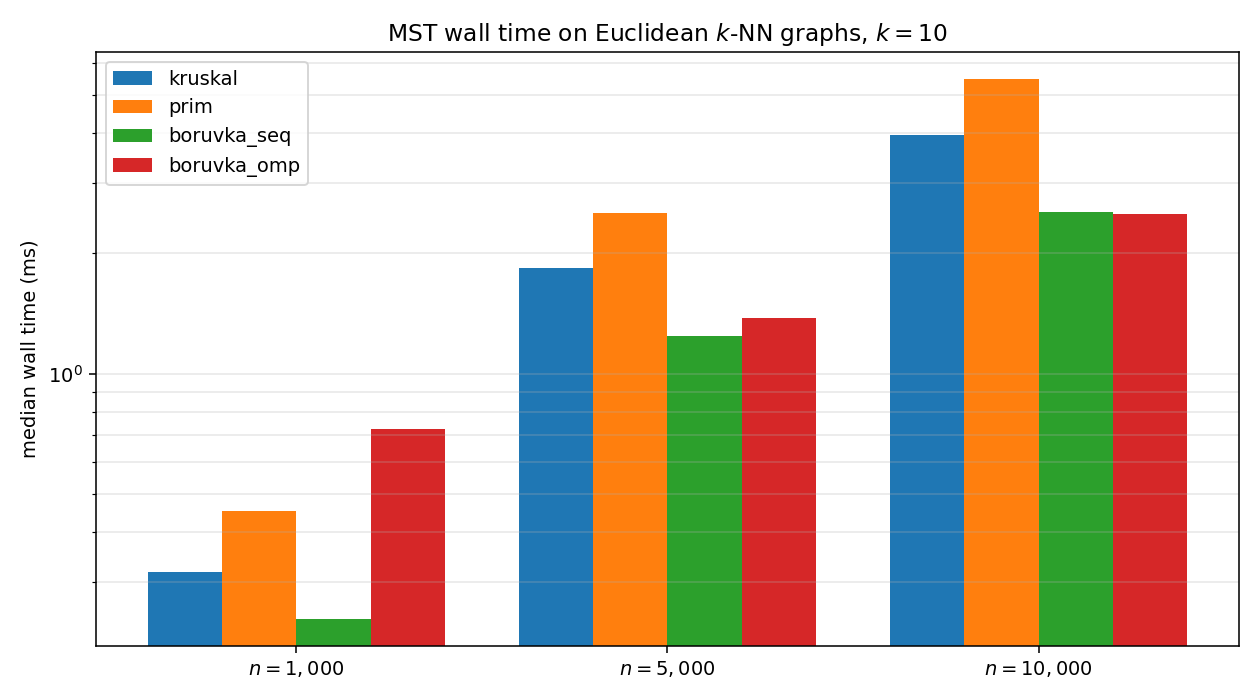
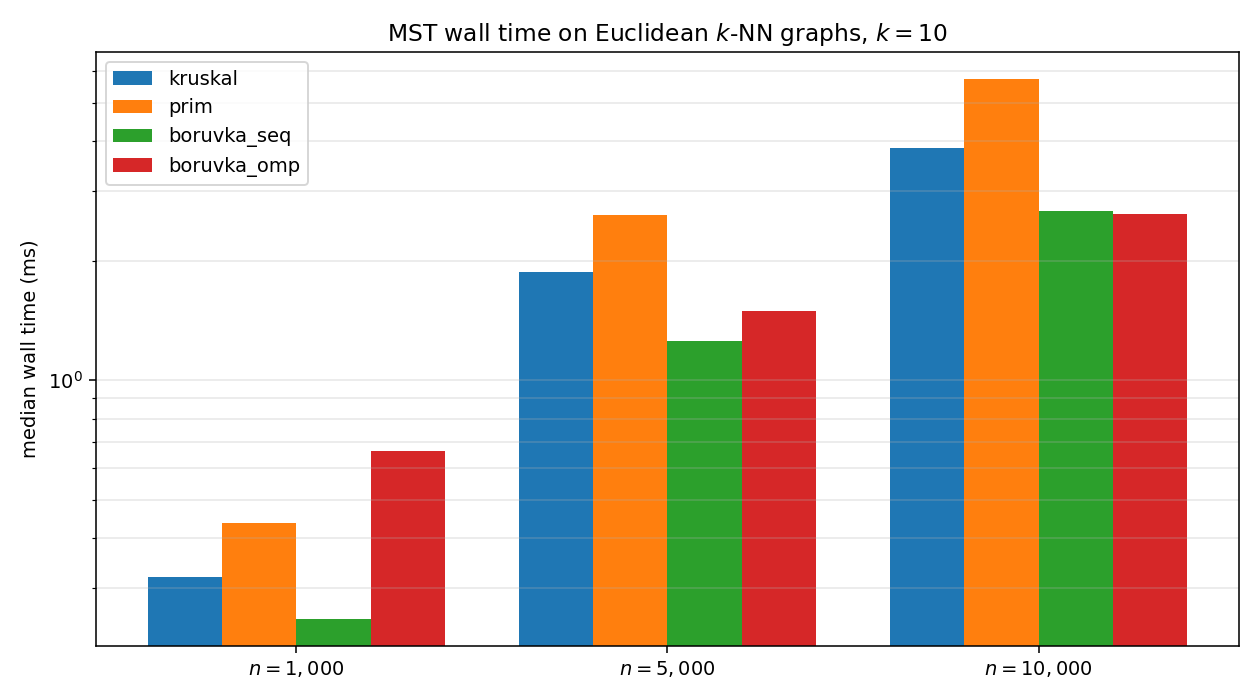
wire e10 and e11 into run_all, document python deps via requirements.txt

diff --git a/README.md b/README.md
@@ -47,7 +47,7 @@ OpenMP ships with MSVC; no separate install needed.
 include/mst/   public headers
 src/           library implementations
 tests/         GoogleTest suites
-tools/         gen_graph, gen_grid, bench, dump_mst, profile_omp
+tools/         gen_graph, gen_grid, gen_knn, bench, dump_mst, profile_omp
 scripts/       bench-sweep orchestrators, plot scripts, MST visualisation
 results/       experiment CSVs and figures (committed; regenerable)
 ```
@@ -77,6 +77,15 @@ Useful for visualisation since vertex `i` has a natural position `(i % cols, i /
 
 ```
 ./build/tools/gen_grid 16 16 7 > grid.txt
+```
+
+`gen_knn <n> <k> [seed]` — Euclidean k-nearest-neighbour graph on `n` random
+points uniformly sampled from `[0,1]²`; edges are symmetrised (i↔j if either
+sees the other in their k-NN list); weight = Euclidean distance. Generation
+is brute-force O(n²); fine up to n≈10⁴.
+
+```
+./build/tools/gen_knn 1000 10 42 > knn.txt
 ```
 
 `bench <algo> [threads]` — runs one of `kruskal | prim | boruvka_seq | boruvka_omp`,
@@ -115,8 +124,14 @@ python3 scripts/plot_bench.py --in sweep.csv --out sweep.png
 
 ## Experiments
 
-The CSVs and PNGs under `results/` are produced by a fixed-seed sweep. Reproduce
-everything with one command (≈10 min on a multi-core machine):
+The CSVs and figures under `results/` are produced by a fixed-seed sweep. The
+plot and animation scripts need `matplotlib`, `networkx`, and `numpy`:
+
+```
+pip install -r requirements.txt
+```
+
+Reproduce everything with one command (≈10 min on a multi-core machine):
 
 ```
 scripts/run_all.sh
@@ -135,8 +150,10 @@ Or run a single experiment + plot:
 | **E7** density × threads speedup heatmap     | `run_density_heatmap.sh` | `plot_e7_density_heatmap.py` | `results/e7_density_heatmap.{csv,png}` |
 | **E8** multi-density Erdős–Rényi (3 densities) | `run_multi_density.sh` | `plot_e8_multi_density.py` | `results/e8_multi_density.{csv,png}` |
 | **E9** 2D grid benchmark (3 sizes)           | `run_grid_benchmark.sh` | `plot_e9_grid_benchmark.py` | `results/e9_grid_benchmark.{csv,png}` |
+| **E10** geometric k-NN benchmark (3 sizes)   | `run_knn_benchmark.sh`  | `plot_e10_knn_benchmark.py` | `results/e10_knn_benchmark.{csv,png}` |
+| **E11** per-round MST animation (10×10 grid) | `gen_grid \| animate_mst.py` (Python replay of Borůvka) | — | `results/e11_mst_animation.gif` |
 
-All sweeps use 5 seeds (42–46); plots show medians.
+All bench sweeps use 5 seeds (42–46); plots show medians.
 
 ## Notes
 